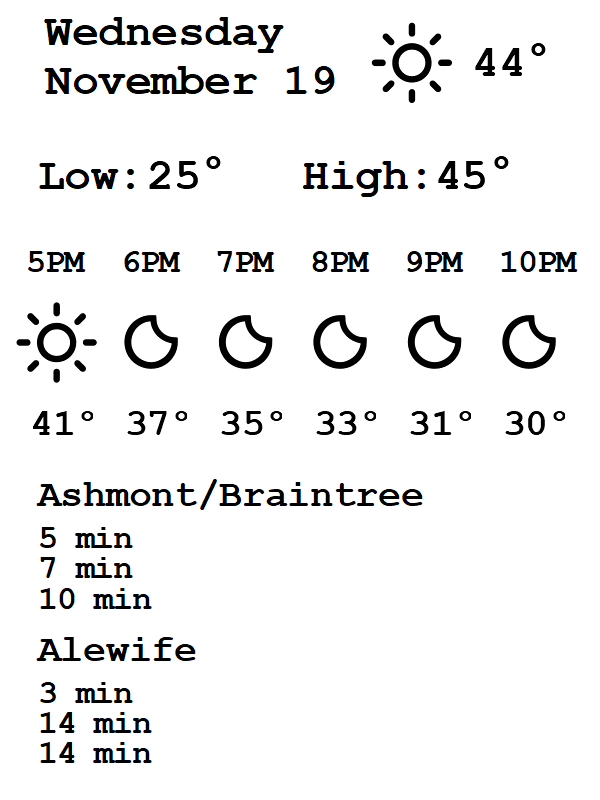
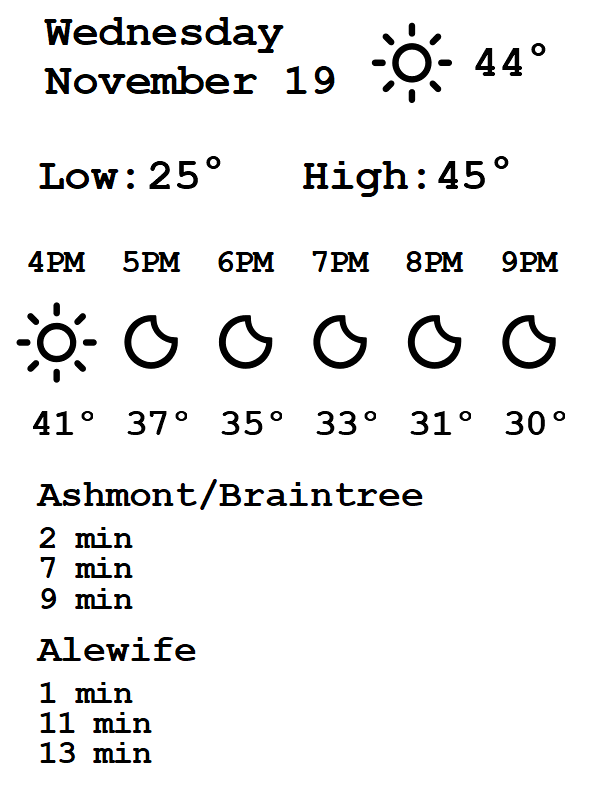
add time zone for forecast hours

diff --git a/server/svgedit.py b/server/svgedit.py
@@ -135,7 +135,6 @@ def update_svg():
     svg = xml.getroot()[2]
 
     for elem in svg:
-        currhour = date.hour
         id = elem.get('id')
         match(id):
             case('weekday'):
@@ -150,17 +149,17 @@ def update_svg():
                 elem.text = str(int(low))+'°'
             case _ if (m := re.fullmatch(r"time(\d+)", str(id))): # next 6 hours
                 num = int(m.group(1))
-                hour = (hourly_dataframe['date'][num+currhour+1] - timedelta(hours=4)).hour
+                hour = (hourly_dataframe['date'][date.hour + num + 1]).astimezone(ZoneInfo(config.TIMEZONE)).hour
                 txt = 'AM'
                 if hour > 12: 
                     txt = 'PM'
                     hour-= 12
                 if hour == 0:
                     hour = 12
-                elem.text=str(hour)+txt
+                elem.text = str(hour)+txt
             case _ if (m := re.fullmatch(r"text(\d+)", str(id))): # temps for next 6 hours
                 num = int(m.group(1))
-                elem.text=str(int(hourly_dataframe['temperature_2m'][num+currhour+1]))+'°'
+                elem.text = str(int(hourly_dataframe['temperature_2m'][date.hour + num + 1]))+'°'
 
     # embed icons because linking file does not work when converting to png
 
@@ -175,7 +174,7 @@ def update_svg():
 
     # next 6 hours
     for i in range(6):
-        hour = i+currhour+1
+        hour = date.hour + i + 1
         weather_code = int(hourly_dataframe['weather_code'][hour])
         dark = (hour >= sunset_time.hour + 1 or hour <= sunrise_time.hour) and weather_code <= 2
         icon_xml = etree.parse(f"static/icons/{weather_code}{'n' if dark else ''}.svg")
